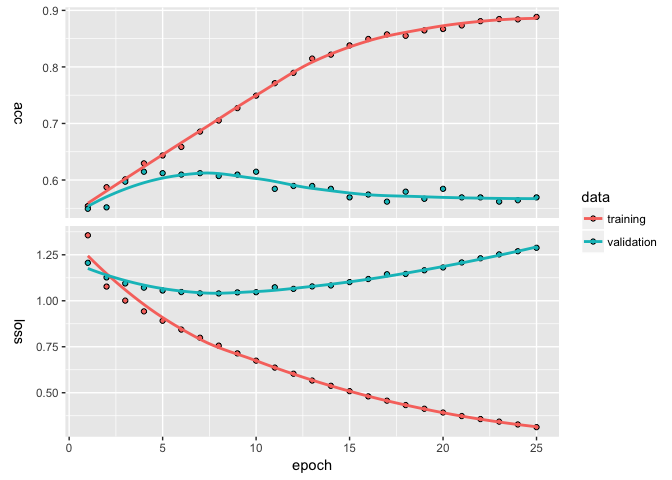
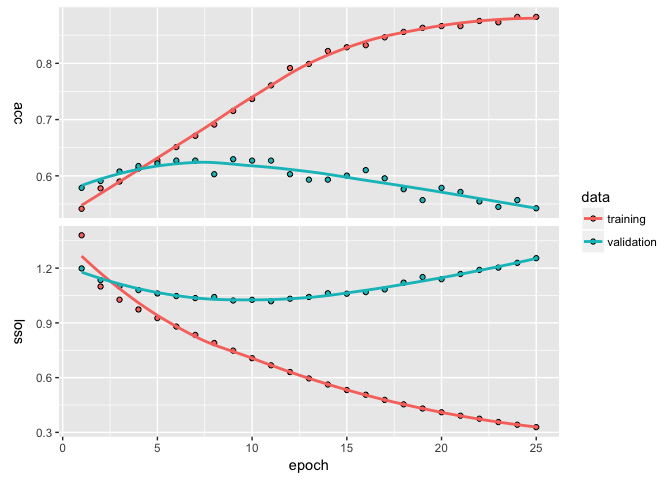
removing helper function grepv

diff --git a/foRmula_keRas.md b/foRmula_keRas.md
@@ -1,7 +1,7 @@
 foRmula keRas
 ================
 Pete Mohanty
-December 19, 2017
+December 20, 2017
 
 The goal of this document is to introduce `lstm`, a regression style function which allows users to call `keras` with `R` `formula` objects and which splits training and test data into sparse matrices. Let's start with an example using `rtweet` from `@kearneymw`. The examples here don't provide particularly predictive models so much as show how using `formula` objects can smooth data cleaning and hyperparameter selection.
 
@@ -13,26 +13,27 @@ rt <- search_tweets(
 dim(rt)
 ```
 
-    [1] 2476   42
+    [1] 2580   42
 
 ``` r
 summary(rt$retweet_count)
 ```
 
        Min. 1st Qu.  Median    Mean 3rd Qu.    Max. 
-      0.000   0.000   0.000   3.468   2.000 327.000 
+      0.000   0.000   0.000   3.486   2.000 327.000 
 
-Suppose we wanted to predict how many times a tweet with `#rstat` is going to be retweeted. And suppose we wanted to bin the retweent count into five categories (none, 1-10, 11-50, 51-99, and 100 or more). Suppose we believe that the twitter handle matters as does day and time of day. Also, this demo makes use of a `grepv`, a wrapper function for grep that returns an `N` length dummy vector.
+Suppose we wanted to predict how many times a tweet with `#rstat` is going to be retweeted. And suppose we wanted to bin the retweent count into five categories (none, 1-10, 11-50, 51-99, and 100 or more). Suppose we believe that the twitter handle matters as does day and time of day.
 
 ``` r
 library(keras)
 breaks <- c(-1, 0, 1, 10, 50, 100, 10000)
 out <- lstm("cut(retweet_count, breaks) ~ screen_name + 
-            grepv('gg', text) + grepv('tidy', text) + 
-            grepv('rstudio', text, ignore.case = TRUE) + grepv('python', text, ignore.case = TRUE) + 
-            grepv('cran', text, ignore.case = TRUE) +
-            grepv('trump', text, ignore.case = TRUE) +
-            weekdays(rt$created_at) + format(rt$created_at, '%d') + 
+            grepl('gg', text) + grepl('tidy', text) + 
+            grepl('rstudio', text, ignore.case = TRUE) +
+            grepl('cran', text, ignore.case = TRUE) +
+            grepl('trump', text, ignore.case = TRUE) +
+            weekdays(rt$created_at) + 
+            format(rt$created_at, '%d') + 
             format(rt$created_at, '%H')", data = rt)
 plot(out$history)
 ```
@@ -46,14 +47,14 @@ summary(out$model)
     ___________________________________________________________________________
     Layer (type)                     Output Shape                  Param #     
     ===========================================================================
-    dense_1 (Dense)                  (None, 128)                   138624      
+    dense_1 (Dense)                  (None, 128)                   142208      
     ___________________________________________________________________________
     dropout_1 (Dropout)              (None, 128)                   0           
     ___________________________________________________________________________
     dense_2 (Dense)                  (None, 6)                     774         
     ===========================================================================
-    Total params: 139,398
-    Trainable params: 139,398
+    Total params: 142,982
+    Trainable params: 142,982
     Non-trainable params: 0
     ___________________________________________________________________________
 
@@ -63,22 +64,22 @@ out$confusion
 
                  
                   (-1,0] (0,1] (1,10] (10,50] (50,100] (100,1e+04]
-      (-1,0]         224    21     31       0        0           0
-      (0,1]           36     8     19       1        0           0
-      (1,10]          49     7     45       9        0           0
-      (10,50]          8     2     16       8        0           0
-      (50,100]         3     0      2       2        0           0
-      (100,1e+04]      1     0      0       0        0           0
+      (-1,0]         215    27     55       3        0           0
+      (0,1]           34    16     12       2        0           0
+      (1,10]          36    14     49       9        0           0
+      (10,50]          9     5     18       7        0           0
+      (50,100]         1     0      2       0        1           0
+      (100,1e+04]      0     0      1       0        0           0
 
 ``` r
 out$evaluations
 ```
 
     $loss
-    [1] 1.279366
+    [1] 1.262151
 
     $acc
-    [1] 0.5792683
+    [1] 0.5581395
 
 Let's say we want to add some data about how many other people are mentioned in each tweet and switch to a (discretized) log scale.
 
@@ -87,42 +88,43 @@ rt$Nmentions <- unlist(lapply(rt$mentions_screen_name,
                               function(x){length(x[[1]]) - is.na(x[[1]])}))
 
 out2 <- lstm("floor(log(retweet_count + 1)) ~ Nmentions + screen_name + 
-            grepv('gg', text) + grepv('tidy', text) + 
-            grepv('rstudio', text, ignore.case = TRUE) + grepv('python', text, ignore.case = TRUE) + 
-            grepv('cran', text, ignore.case = TRUE) +
-            grepv('trump', text, ignore.case = TRUE) +
-            weekdays(rt$created_at) + format(rt$created_at, '%d') + 
+            grepl('gg', text) + grepl('tidy', text) + 
+            grepl('rstudio', text, ignore.case = TRUE) +
+            grepl('cran', text, ignore.case = TRUE) +
+            grepl('trump', text, ignore.case = TRUE) +
+            weekdays(rt$created_at) + 
+            format(rt$created_at, '%d') + 
             format(rt$created_at, '%H')", 
             data = rt, Nepochs = 10)
 out2$evaluations
 ```
 
     $loss
-    [1] 0.7304347
+    [1] 0.8011118
 
     $acc
-    [1] 0.743487
+    [1] 0.7320388
 
 ``` r
 out2$confusion
 ```
 
        
-          0   1   2
-      0 342  13   2
-      1  67  14   8
-      2  18   4  15
-      3   3   5   5
-      4   2   0   1
+          0   1   2   3
+      0 345  12   3   0
+      1  71  18  13   0
+      2  16   8  14   1
+      3   4   3   1   0
+      4   3   0   2   1
 
 Heading in the right direction. Suppose instead we wanted to add who was mentioned.
 
 ``` r
 input.formula <- "floor(log(retweet_count + 1)) ~ Nmentions + screen_name + 
-            grepv('gg', text) + grepv('tidy', text) + 
-            grepv('rstudio', text, ignore.case = TRUE) + grepv('python', text, ignore.case = TRUE) + 
-            grepv('cran', text, ignore.case = TRUE) +
-            grepv('trump', text, ignore.case = TRUE) +
+            grepl('gg', text) + grepl('tidy', text) + 
+            grepl('rstudio', text, ignore.case = TRUE) + grepl('python', text, ignore.case = TRUE) + 
+            grepl('cran', text, ignore.case = TRUE) +
+            grepl('trump', text, ignore.case = TRUE) +
             weekdays(rt$created_at) + format(rt$created_at, '%d') + 
             format(rt$created_at, '%H')"
 
@@ -130,7 +132,7 @@ handles <- names(table(unlist(rt$mentions_screen_name)))
 
 for(i in 1:length(handles)){
   lab <- paste0("mentions_", handles[i])
-  rt[[lab]] <- grepv(handles[i], rt$mentions_screen_name)
+  rt[[lab]] <- grepl(handles[i], rt$mentions_screen_name)
   input.formula <- paste(input.formula, "+", lab)
 }
 
@@ -139,22 +141,22 @@ out3$evaluations
 ```
 
     $loss
-    [1] 0.7727613
+    [1] 0.7457331
 
     $acc
-    [1] 0.7126866
+    [1] 0.7655678
 
 ``` r
 out3$confusion
 ```
 
        
-          0   1   2
-      0 344  23   2
-      1  64  20  15
-      2  21   8  18
-      3   8   3   6
-      4   3   0   1
+          0   1   2   3
+      0 390  14   3   0
+      1  52  13  17   0
+      2  17   4  14   0
+      3  13   1   4   1
+      4   2   0   1   0
 
 Marginal improvement but the model is still clearly overpredicting the modal outcome (zero retweets) and struggling to forecast the rare, popular tweets. Maybe the model needs more layers.
 
@@ -168,10 +170,10 @@ out4$evaluations
 ```
 
     $loss
-    [1] 0.8312168
+    [1] 0.9184905
 
     $acc
-    [1] 0.7256461
+    [1] 0.6960784
 
 ``` r
 out4$confusion
@@ -179,11 +181,11 @@ out4$confusion
 
        
           0
-      0 365
-      1  90
-      2  31
-      3  12
-      4   4
+      0 355
+      1  75
+      2  57
+      3  20
+      4   2
       5   1
 
 Suppose we wanted to see if the estimates were stable across 10 test/train splits.
@@ -202,8 +204,8 @@ for(i in 1:10){
 accuracy
 ```
 
-     [1] 0.6993988 0.7250922 0.6993865 0.7062500 0.7137255 0.6946108 0.7080868
-     [8] 0.7248996 0.7278481 0.7464789
+     [1] 0.6933333 0.7186380 0.7258383 0.7242064 0.7378277 0.7093690 0.6863118
+     [8] 0.7192308 0.7298387 0.7178503
 
 Hmmm... Maybe Model 3 is the closest ... Or maybe we just need more data :)
 
